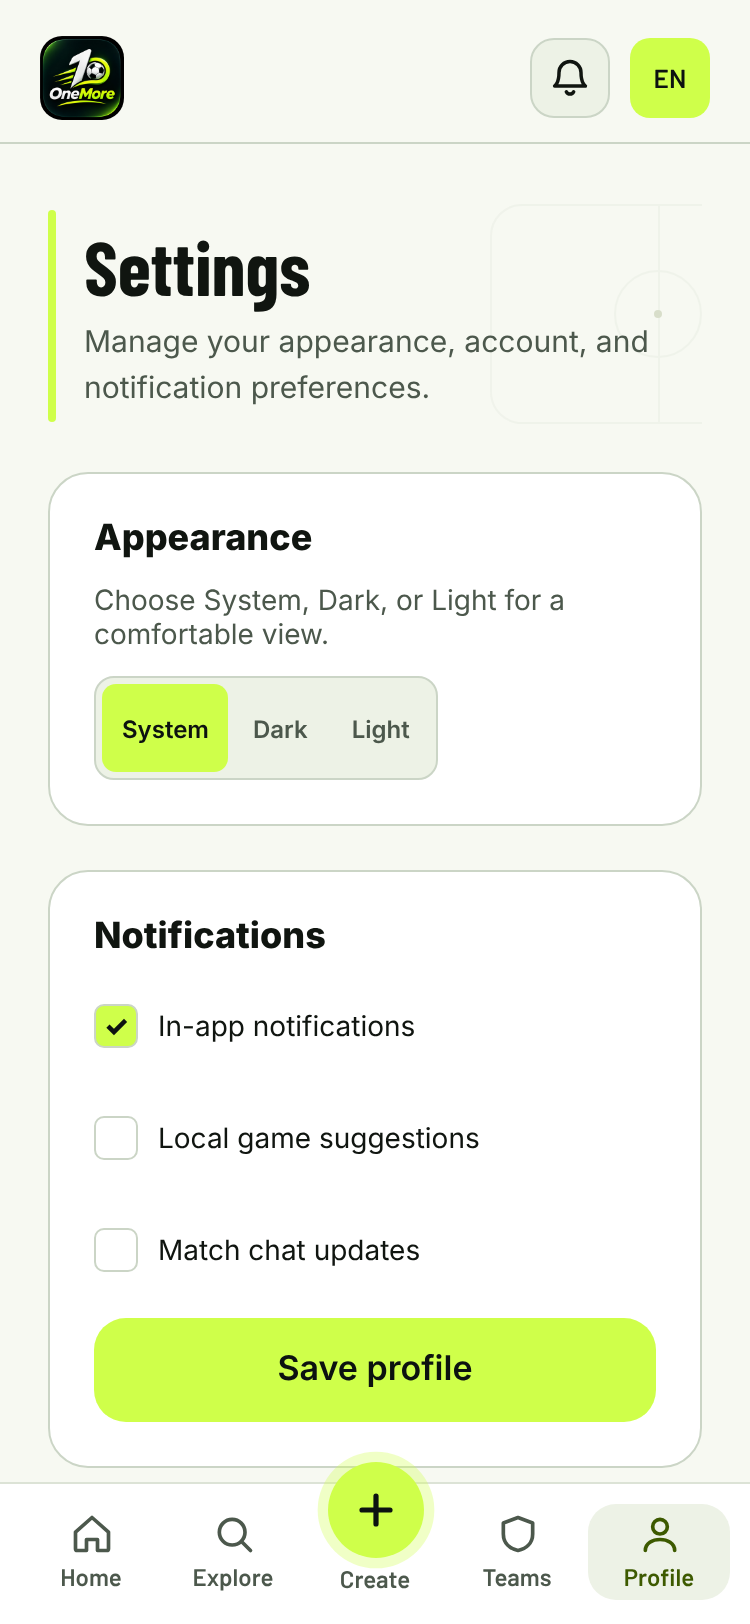
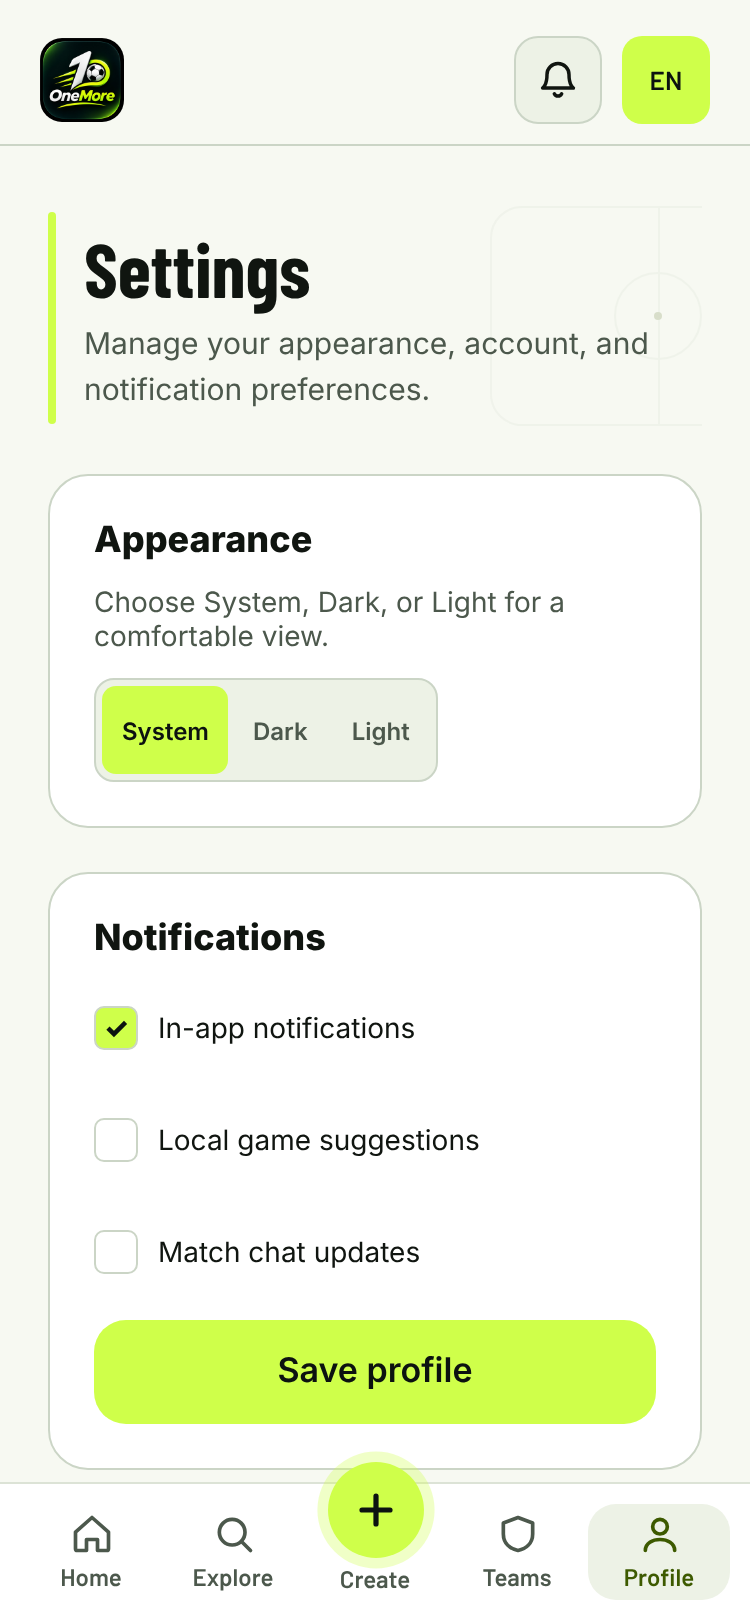
Store readiness batch 1: encrypted session storage, iPhone-only, R8, local data cleanup, 44px targets (regression pending)
Claude-Session: https://claude.ai/code/session_018Y2DJcCxNRruUAufNUxVdN

diff --git a/src/lib/encrypted-session-storage.test.ts b/src/lib/encrypted-session-storage.test.ts
@@ -1,0 +1,69 @@
+import { describe, expect, it } from 'vitest';
+
+import { createEncryptedSessionStorage } from './encrypted-session-storage';
+
+function memory(initial: Record<string, string> = {}) {
+  const values = new Map(Object.entries(initial));
+  return {
+    values,
+    getItem: async (k: string) => values.get(k) ?? null,
+    setItem: async (k: string, v: string) => void values.set(k, v),
+    removeItem: async (k: string) => void values.delete(k),
+  };
+}
+let counter = 1;
+const random = (n: number) => Uint8Array.from({ length: n }, () => (counter += 7) % 256);
+
+describe('encrypted session storage', () => {
+  it('stores ciphertext, never the token, and reads it back', async () => {
+    const base = memory();
+    const keys = memory();
+    const s = createEncryptedSessionStorage(base, keys, random);
+    const session = '{"refresh_token":"secret-refresh-token"}';
+    await s.setItem('session', session);
+    expect(base.values.get('session')).not.toContain('secret-refresh-token');
+    expect(base.values.get('session')?.startsWith('enc1:')).toBe(true);
+    expect(keys.values.get('one-more.session-key')).toHaveLength(64);
+    await expect(s.getItem('session')).resolves.toBe(session);
+  });
+
+  it('uses a fresh nonce for every write', async () => {
+    const base = memory();
+    const s = createEncryptedSessionStorage(base, memory(), random);
+    await s.setItem('a', 'same');
+    const first = base.values.get('a');
+    await s.setItem('a', 'same');
+    expect(base.values.get('a')).not.toBe(first);
+  });
+
+  it('upgrades an older plain-text session in place', async () => {
+    const base = memory({ session: '{"refresh_token":"old"}' });
+    const s = createEncryptedSessionStorage(base, memory(), random);
+    await expect(s.getItem('session')).resolves.toBe('{"refresh_token":"old"}');
+    expect(base.values.get('session')?.startsWith('enc1:')).toBe(true);
+  });
+
+  it('acts signed out when the key is lost or the data is tampered with', async () => {
+    const base = memory();
+    const keys = memory();
+    const s = createEncryptedSessionStorage(base, keys, random);
+    await s.setItem('session', 'value');
+    keys.values.clear();
+    await expect(s.getItem('session')).resolves.toBeNull();
+
+    const keys2 = memory();
+    const s2 = createEncryptedSessionStorage(base, keys2, random);
+    await s2.setItem('session', 'value');
+    const stored = base.values.get('session') as string;
+    base.values.set('session', stored.slice(0, -2) + (stored.endsWith('00') ? '11' : '00'));
+    await expect(s2.getItem('session')).resolves.toBeNull();
+  });
+
+  it('removes the stored session', async () => {
+    const base = memory();
+    const s = createEncryptedSessionStorage(base, memory(), random);
+    await s.setItem('session', 'x');
+    await s.removeItem('session');
+    await expect(s.getItem('session')).resolves.toBeNull();
+  });
+});

diff --git a/src/lib/encrypted-session-storage.ts b/src/lib/encrypted-session-storage.ts
@@ -1,0 +1,64 @@
+import { gcm } from '@noble/ciphers/aes.js';
+import { bytesToHex, bytesToUtf8, hexToBytes, utf8ToBytes } from '@noble/ciphers/utils.js';
+import type { SupportedStorage } from '@supabase/supabase-js';
+
+type KeyValueStorage = Pick<SupportedStorage, 'getItem' | 'setItem' | 'removeItem'>;
+
+const PREFIX = 'enc1:';
+const NONCE_BYTES = 12;
+const KEY_BYTES = 32;
+
+// The sign-in session is too big for SecureStore (about 2 KB per value), so it lives in normal
+// storage but encrypted with AES-256-GCM. The random key itself is kept in the Keychain/Keystore
+// (SecureStore). A stolen backup or file copy of the app storage therefore holds no usable token.
+// A value without the prefix is an older plain-text session: it is still read, then re-encrypted.
+export function createEncryptedSessionStorage(
+  base: KeyValueStorage,
+  keyStore: KeyValueStorage,
+  randomBytes: (length: number) => Uint8Array,
+  keyName = 'one-more.session-key',
+): SupportedStorage {
+  async function getKey(create: boolean): Promise<Uint8Array | null> {
+    const stored = await keyStore.getItem(keyName);
+    if (stored && stored.length === KEY_BYTES * 2) return hexToBytes(stored);
+    if (!create) return null;
+    const key = randomBytes(KEY_BYTES);
+    await keyStore.setItem(keyName, bytesToHex(key));
+    return key;
+  }
+
+  async function encrypt(value: string): Promise<string> {
+    const key = await getKey(true);
+    if (!key) throw new Error('Could not create the session encryption key.');
+    const nonce = randomBytes(NONCE_BYTES);
+    const sealed = gcm(key, nonce).encrypt(utf8ToBytes(value));
+    return PREFIX + bytesToHex(nonce) + bytesToHex(sealed);
+  }
+
+  async function decrypt(stored: string): Promise<string | null> {
+    try {
+      const key = await getKey(false);
+      if (!key) return null;
+      const raw = hexToBytes(stored.slice(PREFIX.length));
+      const plain = gcm(key, raw.slice(0, NONCE_BYTES)).decrypt(raw.slice(NONCE_BYTES));
+      return bytesToUtf8(plain);
+    } catch {
+      // Wrong key (reinstall, restored backup) or damaged data: behave as signed out.
+      return null;
+    }
+  }
+
+  return {
+    async getItem(name) {
+      const stored = await base.getItem(name);
+      if (stored === null) return null;
+      if (stored.startsWith(PREFIX)) return decrypt(stored);
+      await base.setItem(name, await encrypt(stored));
+      return stored;
+    },
+    async setItem(name, value) {
+      await base.setItem(name, await encrypt(value));
+    },
+    removeItem: (name) => base.removeItem(name),
+  };
+}

diff --git a/src/features/auth/auth-service.ts b/src/features/auth/auth-service.ts
@@ -1,3 +1,6 @@
+import AsyncStorage from '@react-native-async-storage/async-storage';
+
+import { clearRequestCache } from '@/lib/request-cache';
 import { getSupabaseClient } from '@/lib/supabase';
 
 export function signUpWithPassword(
@@ -49,6 +52,20 @@ export function setNewPassword(password: string) {
   return getSupabaseClient().auth.updateUser({ password });
 }
 
-export function signOut() {
-  return getSupabaseClient().auth.signOut();
+/** Forgets everything this device cached about the signed-in user (memory cache + profile flag). */
+export async function clearLocalUserData(): Promise<void> {
+  clearRequestCache();
+  try {
+    const keys = await AsyncStorage.getAllKeys();
+    const mine = keys.filter((key) => key.startsWith('one-more.profile-complete.'));
+    if (mine.length > 0) await AsyncStorage.multiRemove(mine);
+  } catch {
+    // Storage may be unavailable; the session itself is still ended by the caller.
+  }
+}
+
+export async function signOut() {
+  const result = await getSupabaseClient().auth.signOut();
+  await clearLocalUserData();
+  return result;
 }

diff --git a/src/lib/native-auth-session-storage.ts b/src/lib/native-auth-session-storage.ts
@@ -1,8 +1,10 @@
 import AsyncStorage from '@react-native-async-storage/async-storage';
+import * as Crypto from 'expo-crypto';
 import * as SecureStore from 'expo-secure-store';
 import type { SupportedStorage } from '@supabase/supabase-js';
 
 import { createMigratingSessionStorage } from '@/lib/auth-session-storage';
+import { createEncryptedSessionStorage } from '@/lib/encrypted-session-storage';
 
 const legacySecureStore: SupportedStorage = {
   async getItem(key) {
@@ -48,7 +50,13 @@ const legacySecureStore: SupportedStorage = {
   },
 };
 
+const keyStore: SupportedStorage = {
+  getItem: (key) => SecureStore.getItemAsync(key),
+  setItem: (key, value) => SecureStore.setItemAsync(key, value),
+  removeItem: (key) => SecureStore.deleteItemAsync(key),
+};
+
 export const authSessionStorage = createMigratingSessionStorage(
-  AsyncStorage,
+  createEncryptedSessionStorage(AsyncStorage, keyStore, (length) => Crypto.getRandomBytes(length)),
   legacySecureStore,
 );

diff --git a/src/app/(app)/settings.tsx b/src/app/(app)/settings.tsx
@@ -1,3 +1,4 @@
+import { clearLocalUserData } from '@/features/auth/auth-service';
 import { router } from 'expo-router';
 import { useCallback, useEffect, useState } from 'react';
 import { Pressable, StyleSheet, Text, View } from 'react-native';
@@ -136,6 +137,7 @@ export default function SettingsScreen() {
       await getSupabaseClient()
         .auth.signOut({ scope: 'local' })
         .catch(() => undefined);
+      await clearLocalUserData();
       showToast(copy.settingsDeletionRequestSuccess, 'success');
       router.replace('/');
     } catch {

diff --git a/src/components/preferences-switchers.tsx b/src/components/preferences-switchers.tsx
@@ -114,8 +114,8 @@ const styles = StyleSheet.create({
   group: { gap: 4 },
   compactGroup: { flexShrink: 0 },
   compactOption: {
-    minHeight: 40,
-    minWidth: 40,
+    minHeight: 44,
+    minWidth: 44,
     paddingHorizontal: 10,
     borderRadius: 10,
     alignItems: 'center',

diff --git a/src/components/notifications/NotificationBell.tsx b/src/components/notifications/NotificationBell.tsx
@@ -112,8 +112,8 @@ export function NotificationBell() {
 
 const styles = StyleSheet.create({
   box: {
-    width: 40,
-    height: 40,
+    width: 44,
+    height: 44,
     borderRadius: 12,
     borderWidth: 1,
     alignItems: 'center',

diff --git a/FIX_PLAN.md b/FIX_PLAN.md
@@ -60,3 +60,17 @@ Owner = **ME** (console / manual / decision), **CODE** = I do it. Effort S/M/L. 
 5. P3 only if you ask.
 
 Not doing without your decision: P3-4 and P3-5 (large rewrites; "do not break existing features").
+
+## Progress — batch 1 (2026-11-16)
+
+| ID | Status | Note |
+| --- | --- | --- |
+| P0-6 | ✅ code | Session encrypted with AES-256-GCM (`@noble/ciphers`); random key in SecureStore (`expo-crypto` for randomness). Old plain sessions are upgraded in place; lost key/tampering = signed out. 5 new unit tests |
+| P1-1 | ✅ | `ios.supportsTablet: false`; prebuild shows `TARGETED_DEVICE_FAMILY = "1"` (iPhone only) |
+| P1-2 | ✅ | `clearLocalUserData()` (request cache + profile flag) runs on sign-out and account deletion |
+| P1-4 | ✅ | `appVersionSource: remote`, production iOS `image: latest`. ⚠ You must run `eas build:version:set` once if you want to start from a specific number |
+| P1-5 | ✅ | Bell and language switch are 44×44 |
+| P2-1 | ✅ | `expo-build-properties`; prebuild shows `enableMinifyInReleaseBuilds=true`, `enableShrinkResourcesInReleaseBuilds=true` |
+| P2-2 | ⏭ dropped | The font plugin registers fonts by file name (`Barlow-Regular`) but the code uses names like `Barlow_400Regular`; switching would mean renaming every fontFamily for no gain. Runtime loading stays |
+| P2-7 | pending | static legal files |
+| P0-1 | waiting | needs your bundle id |

diff --git a/docs/IMPLEMENTATION_LOG.md b/docs/IMPLEMENTATION_LOG.md
@@ -1840,3 +1840,8 @@
 
 ## Notification bell
 - Top bar (signed-in, all pages with the bar): bell box beside the language switch (both 40 px high) with a red unread badge (99+ above 99), lime bell when there is something unread, rings once when the count grows. Count = unread rows of `inbox_notifications` (head count), refreshed on sign-in, page change, app resume and every 60 s; the Notifications page keeps it in sync and now has a back button. Hidden when signed out. Tests: `e2e/notification-bell.spec.ts`; regression 67 passed + 9 desktop. Not tested on a device; no realtime push (polling only).
+
+### 2026-11-16 — Store readiness fixes, batch 1
+- **Change:** encrypted auth session storage (AES-256-GCM, key in SecureStore), iPhone-only iOS target, local data cleared on sign-out/deletion, EAS remote versioning + production iOS image, 44 px tap targets, Android R8 + resource shrinking via `expo-build-properties`. New deps: `@noble/ciphers`, `expo-crypto`, `expo-build-properties`.
+- **Checks:** tsc PASS, eslint PASS, vitest 55 PASS, `expo prebuild` (temp copy) PASS: iPhone-only family, minify and shrink true. Browser regression: see next entry.
+- **Not verified:** real device sign-in after the OTA (encrypted storage needs a device test; web uses Supabase's own storage).
